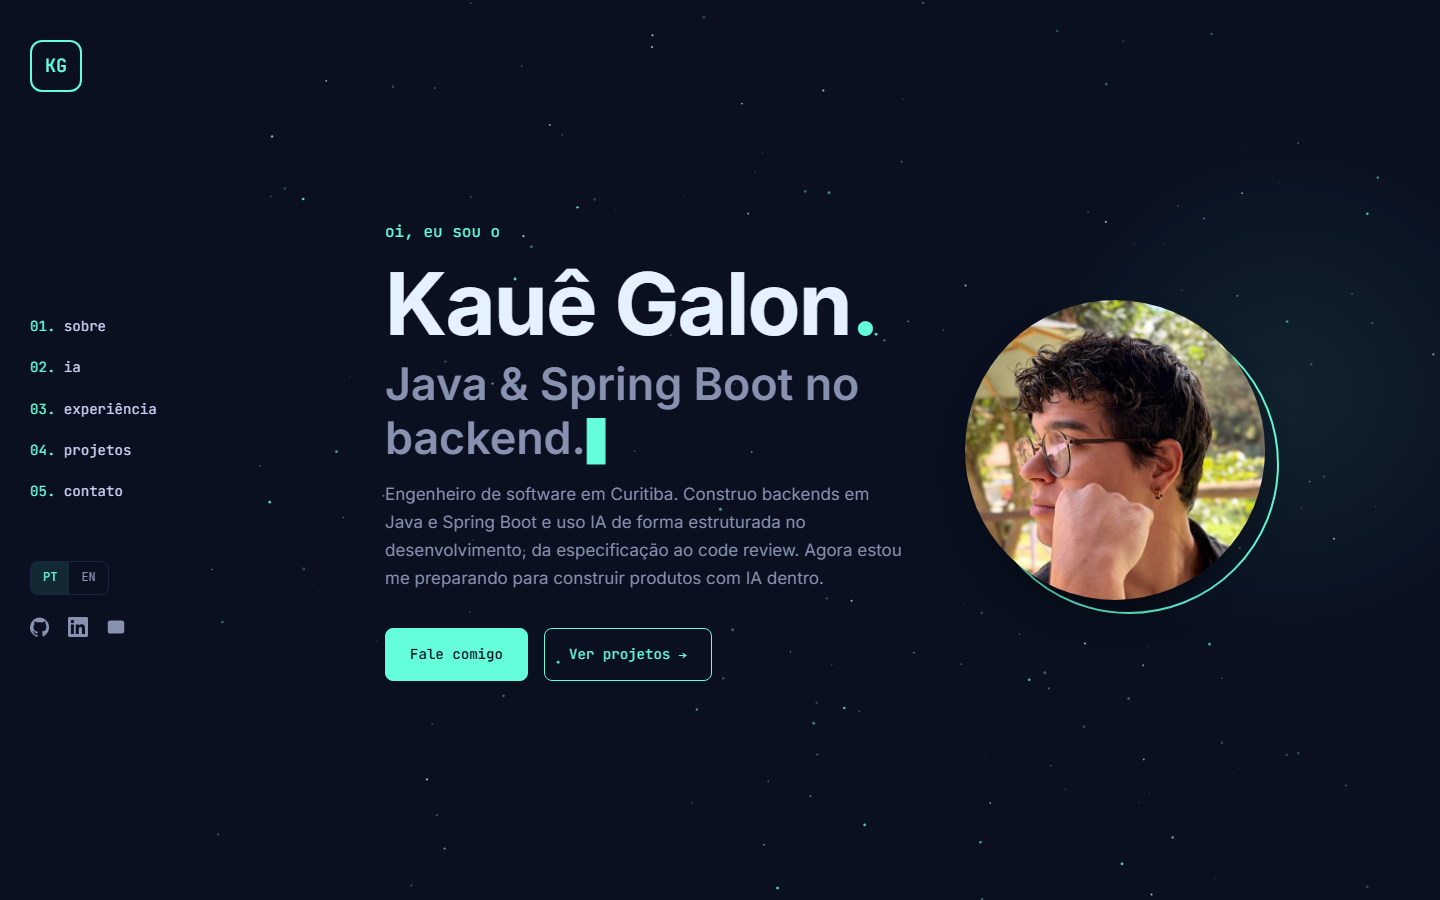
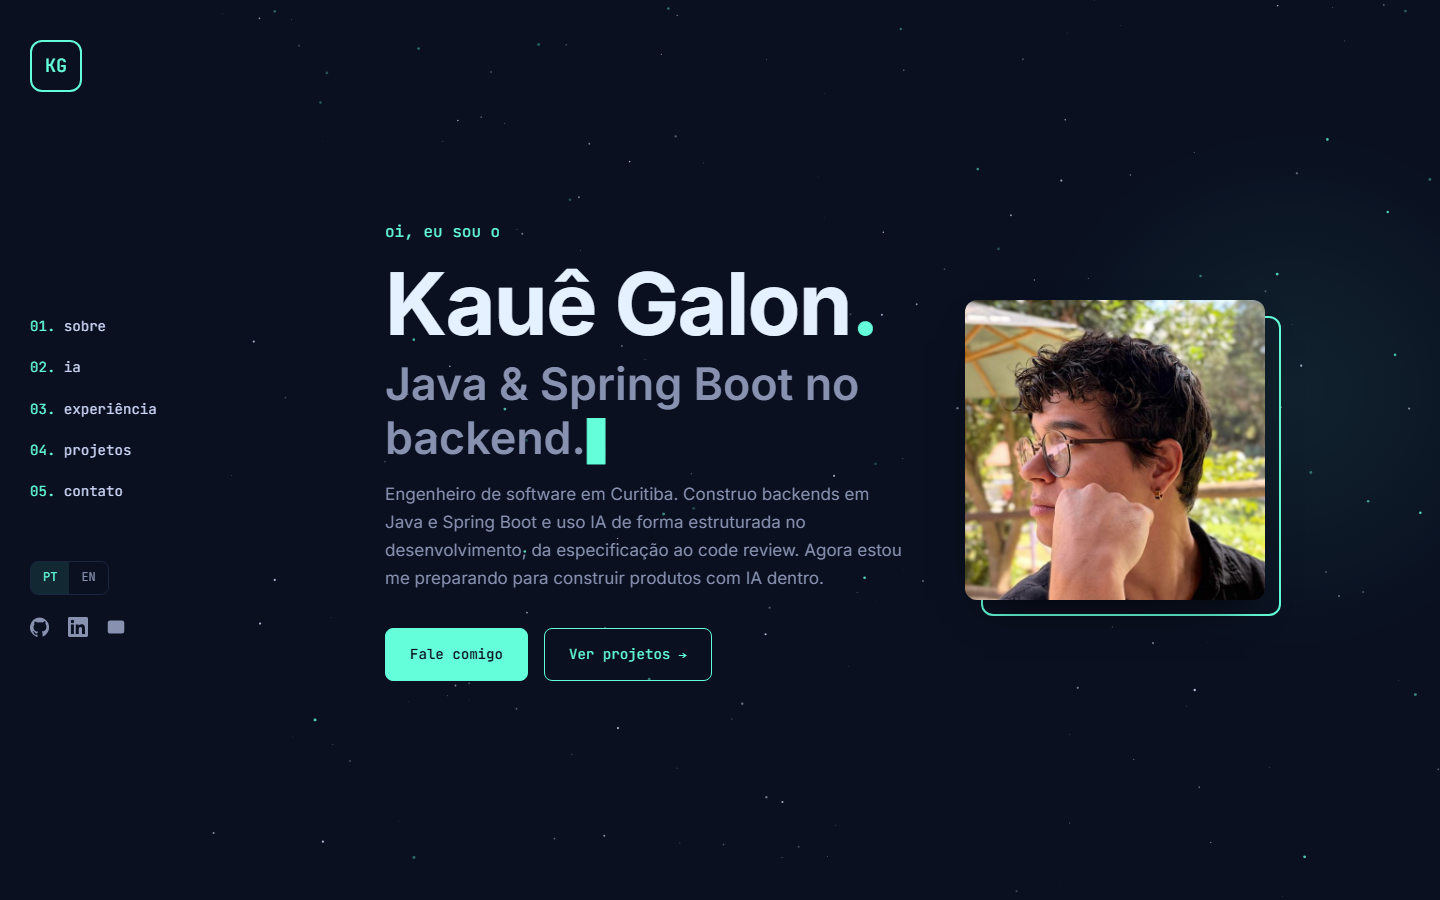
feat: square hero photo and restore about photo slot

Changed region(s): [[0.6562, 0.3111, 0.9062, 0.6844], [0.6562, 0.3111, 0.75, 0.4667]]

diff --git a/src/styles.css b/src/styles.css
@@ -87,12 +87,12 @@ main { margin-left: var(--side); }
 .intro__text { min-width: 0; }
 .intro__photo { position: relative; width: clamp(200px, 22vw, 300px); }
 .intro__photo::after {
-  content: ""; position: absolute; inset: 0; border: 2px solid var(--accent); border-radius: 50%;
-  transform: translate(14px, 14px); z-index: -1; transition: transform .3s var(--ease);
+  content: ""; position: absolute; inset: 0; border: 2px solid var(--accent); border-radius: 12px;
+  transform: translate(16px, 16px); z-index: -1; transition: transform .3s var(--ease);
 }
-.intro__photo:hover::after { transform: translate(6px, 6px); }
+.intro__photo:hover::after { transform: translate(8px, 8px); }
 .intro__photo img {
-  display: block; width: 100%; height: auto; aspect-ratio: 1; object-fit: cover; border-radius: 50%;
+  display: block; width: 100%; height: auto; aspect-ratio: 1; object-fit: cover; border-radius: 12px;
   box-shadow: 0 20px 40px -20px rgba(0, 0, 0, .8); filter: saturate(.9);
 }
 .intro__hi { margin-bottom: 14px; font-size: 1rem; }
@@ -115,7 +115,7 @@ main { margin-left: var(--side); }
 .btn--solid:hover { background: var(--accent); box-shadow: 4px 4px 0 var(--text-strong); }
 
 /* ---------- About ---------- */
-.about { max-width: 720px; }
+.about { display: grid; grid-template-columns: 3fr 2fr; gap: 56px; align-items: start; }
 .about p { margin-bottom: 16px; }
 .tech-grid { display: grid; grid-template-columns: repeat(2, minmax(140px, 220px)); gap: 6px 10px; list-style: none; font-family: var(--mono); font-size: .82rem; margin-top: 6px; }
 .tech-grid li::before, .bullets li::before { content: "▹"; color: var(--accent); margin-right: 10px; }
@@ -294,6 +294,7 @@ main { margin-left: var(--side); }
   .intro__content { padding: 0 16px; }
   .intro__content { grid-template-columns: 1fr; gap: 28px; padding-top: 90px; padding-bottom: 40px; }
   .intro__photo { order: -1; width: 150px; }
+  .about { grid-template-columns: 1fr; gap: 40px; }
   .intro__photo::after { transform: translate(8px, 8px); }
   .tabs { flex-direction: column; gap: 22px; min-height: 0; }
   .tabs__list { flex-direction: row; overflow-x: auto; border-left: 0; border-bottom: 2px solid var(--bg-3); scrollbar-width: none; }

diff --git a/src/App.jsx b/src/App.jsx
@@ -1,6 +1,7 @@
 import { useEffect, useState } from "react";
 import { content, links, projects, experience } from "./content.js";
 import AiSection from "./components/AiSection.jsx";
+import AboutPhoto from "./components/AboutPhoto.jsx";
 import Starfield from "./components/Starfield.jsx";
 import Typewriter from "./components/Typewriter.jsx";
 import Reveal from "./components/Reveal.jsx";
@@ -114,6 +115,7 @@ export default function App() {
                 {t.about.tech.map((x) => <li key={x}>{x}</li>)}
               </ul>
             </div>
+            <AboutPhoto />
           </div>
         </Reveal>
 

diff --git a/src/components/AboutPhoto.jsx b/src/components/AboutPhoto.jsx
@@ -1,0 +1,17 @@
+import { useState } from "react";
+
+// Foto da seção "sobre". Coloque o arquivo em public/sobre.jpg;
+// enquanto ele não existir, aparece o quadro com "KG".
+export default function AboutPhoto() {
+  const [failed, setFailed] = useState(false);
+
+  return (
+    <div className="photo">
+      {failed ? (
+        <div className="photo__placeholder">KG</div>
+      ) : (
+        <img src="/sobre.jpg" alt="Kauê Galon" onError={() => setFailed(true)} />
+      )}
+    </div>
+  );
+}

diff --git a/README.md b/README.md
@@ -47,6 +47,7 @@ Todo push na branch `main` faz o build e publica no GitHub Pages automaticamente
 | `src/experience.js` | Experiências no método STAR |
 | `src/aiCases.js` | Casos reais com IA no método STAR |
 | `public/foto.jpg` | Foto da página inicial |
+| `public/sobre.jpg` | Foto da seção "sobre" (enquanto não existir, aparece o quadro "KG") |
 
 ## 🎨 paleta de cores
 
